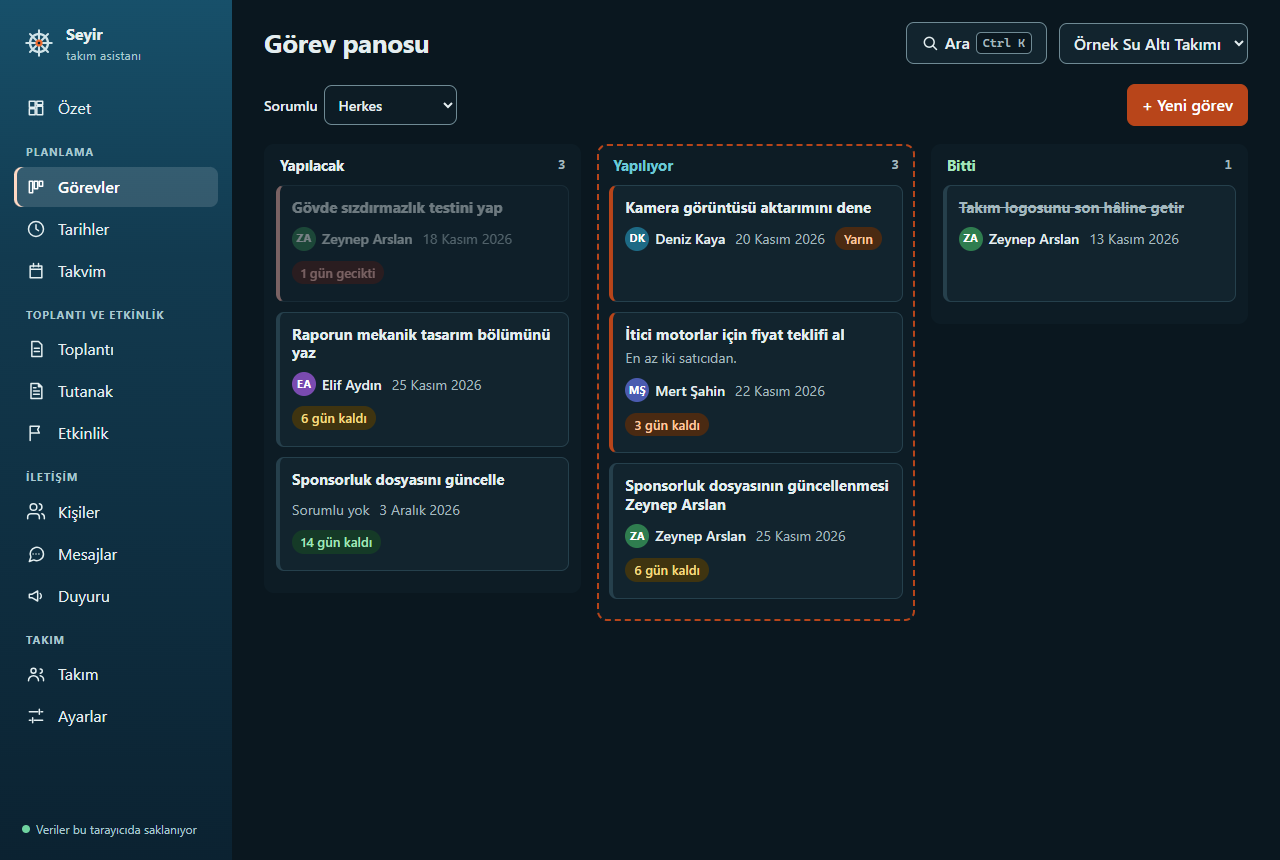
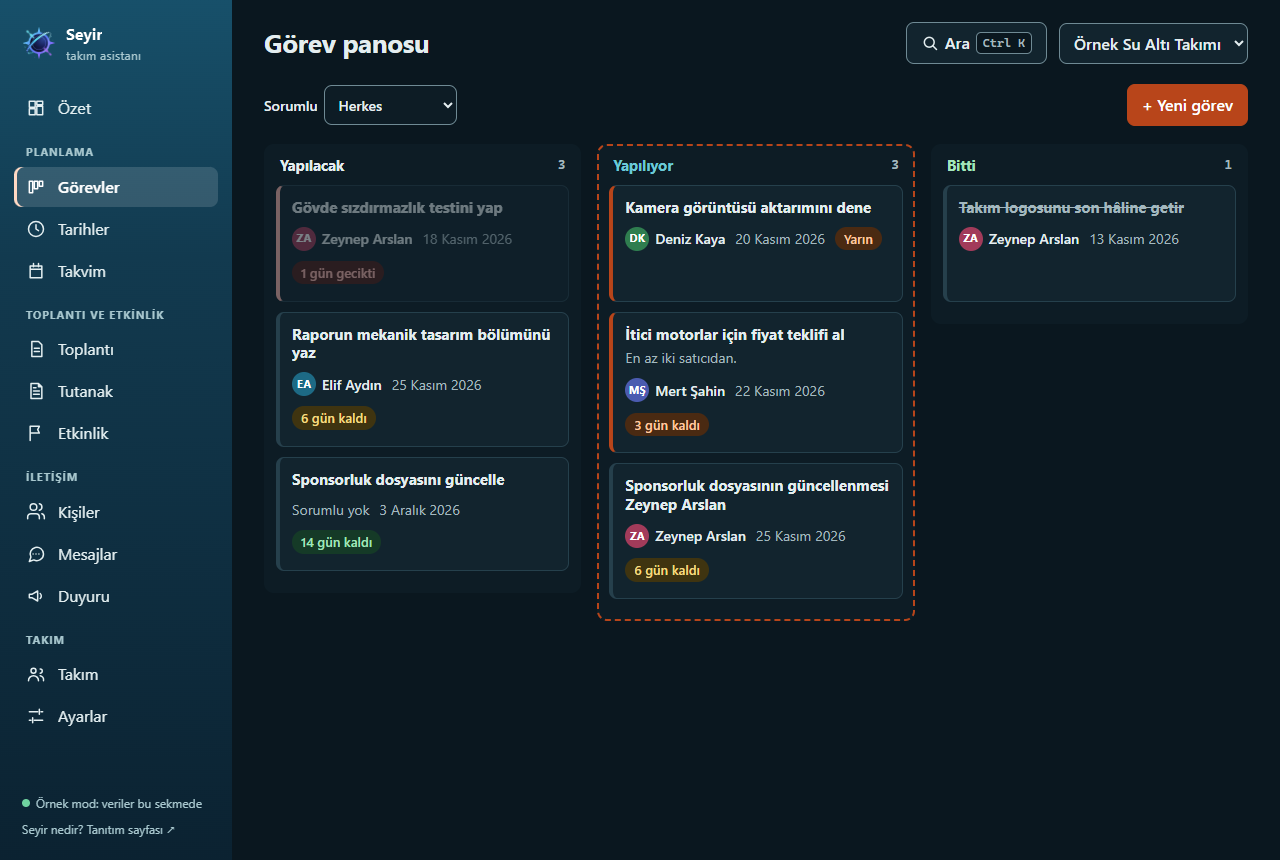
Tanıtım cilaları: yeni ekran görüntüleri, Yenilikler, ilerleme çizgisi
- README ve tanıtımdaki ekran görüntüleri yeni logoyla yeniden çekildi
  (örnek modda, uydurma veriyle)
- Yenilikler bölümü: son üç günün kullanıcıya görünen değişiklikleri;
  girişteki "Yeni" rozeti buraya götürür
- Sayfanın üstünde kaydırma ilerleme çizgisi
- Degrade başlıklarda ş/ç/ğ alt çengelleri artık kırpılmıyor

diff --git a/tanitim-kaynak/src/yenilikler.jsx b/tanitim-kaynak/src/yenilikler.jsx
@@ -1,0 +1,67 @@
+// Yenilikler: son eklenen özellikler, tarihe göre. Kaynak git geçmişi; yalnızca kullanıcının
+// göreceği değişiklikler yazılır (altyapı, test, belge değişiklikleri yazılmaz).
+// Yeni bir özellik eklenince listenin BAŞINA ekle; en fazla 3 tarih göster.
+import { Belir, BolumBasligi, IsikliKart } from "./ortak.jsx";
+
+const SURUMLER = [
+  {
+    tarih: "19 Kasım 2026",
+    maddeler: [
+      ["Yeni", "Hesap açmadan dene: tek tıkla uydurma bir takımla dolu uygulama, sekmeyi kapatınca silinir."],
+      ["Yeni", "Yeni logo ve tanıtım sayfası."],
+      ["İyileşti", "Özet ekranı: ilerleme çubuğu, \"Kimde ne var\" ve \"Sıradaki buluşmalar\"."],
+      ["İyileşti", "Telefonda alt çubukta dört ana ekran; menü gruplara ayrıldı."],
+    ],
+  },
+  {
+    tarih: "18 Kasım 2026",
+    maddeler: [
+      ["Yeni", "Görev panosunda kartları sürükleyip başka sütuna bırak."],
+      ["Yeni", "Ctrl+K ile her yerde arama; Ctrl+S kaydet, ? kısayol listesi."],
+      ["Yeni", "Takvimi .ics dosyasıyla Google Takvim'e ya da telefona aktar."],
+      ["Yeni", "Tutanak kararından tek tıkla görev; sorumlu metindeki addan seçilir."],
+      ["İyileşti", "Başlıksız notlar da forma yerleşiyor; Word dosyası sürükleyip bırakılabiliyor."],
+      ["İyileşti", "Yarım kalan formlar kaybolmuyor, açınca geri geliyor."],
+    ],
+  },
+  {
+    tarih: "17 Kasım 2026",
+    maddeler: [
+      ["Yeni", "Şifremi unuttum, beni hatırla ve şifre değiştirme."],
+      ["Güvenlik", "İki kişi aynı kaydı aynı anda düzenlerse uyarı; kimsenin yazdığı ezilmez."],
+    ],
+  },
+];
+
+const ROZET = {
+  Yeni: "border-su-300/30 bg-su-300/10 text-su-300",
+  "İyileşti": "border-violet-300/30 bg-violet-300/10 text-violet-200",
+  "Güvenlik": "border-emerald-300/30 bg-emerald-300/10 text-emerald-200",
+};
+
+export function Yenilikler() {
+  return (
+    <section id="yenilikler" className="relative mx-auto max-w-6xl scroll-mt-24 px-5 py-28 sm:py-36">
+      <BolumBasligi etiket="Yenilikler" baslik="Durmadan gelişiyor."
+        aciklama="Takımdan gelen her geri bildirim bir sonraki sürüme dönüşüyor. Son eklenenler:" />
+      <div className="mx-auto mt-14 max-w-3xl space-y-5">
+        {SURUMLER.map((s, i) => (
+          <IsikliKart key={s.tarih} gecikme={i * 0.08} className="rounded-3xl p-6 sm:p-8">
+            <h3 className="font-mono text-sm tracking-wide text-slate-400">{s.tarih}</h3>
+            <ul className="mt-4 space-y-3">
+              {s.maddeler.map(([tur, metin]) => (
+                <li key={metin} className="flex items-start gap-3">
+                  <span className={"mt-0.5 flex-none rounded-full border px-2 py-0.5 text-[11px] font-medium " + ROZET[tur]}>{tur}</span>
+                  <span className="leading-relaxed text-slate-300">{metin}</span>
+                </li>
+              ))}
+            </ul>
+          </IsikliKart>
+        ))}
+        <Belir gecikme={0.2} as="p" className="pt-2 text-center text-sm text-slate-500">
+          Bütün değişiklikler GitHub'daki geçmişte.
+        </Belir>
+      </div>
+    </section>
+  );
+}

diff --git a/tanitim-kaynak/src/ust-bolumler.jsx b/tanitim-kaynak/src/ust-bolumler.jsx
@@ -1,6 +1,6 @@
 // Sayfanın üst yarısı: menü, hero, kayan bant, bento özellik kartları.
 import { useEffect, useRef, useState } from "react";
-import { motion, useScroll, useTransform, useReducedMotion, AnimatePresence } from "framer-motion";
+import { motion, useScroll, useTransform, useReducedMotion, useSpring, AnimatePresence } from "framer-motion";
 import {
   ArrowRight, Github, Search, CalendarPlus, WifiOff, MessageCircle, FileText,
   SquareKanban, Sparkles, Play,
@@ -11,6 +11,19 @@ import ozetGorseli from "./gorseller/ozet.png";
 import tutanakGorseli from "./gorseller/tutanak-gorev.png";
 
 /* ---------- Üst menü: kaydırınca cam efektli olur ---------- */
+/* ---------- Kaydırma ilerleme çizgisi ----------
+   Sayfanın en üstünde, aşağı indikçe soldan sağa dolan ince çizgi. Yaylı (spring)
+   geçiş titremeyi önler; "hareketi azalt" açıksa yay olmadan doğrudan izler. */
+export function KaydirmaCizgisi() {
+  const { scrollYProgress } = useScroll();
+  const azHareket = useReducedMotion();
+  const yayli = useSpring(scrollYProgress, { stiffness: 140, damping: 30, mass: 0.3 });
+  return (
+    <motion.div aria-hidden="true" style={{ scaleX: azHareket ? scrollYProgress : yayli }}
+      className="fixed inset-x-0 top-0 z-[60] h-[2px] origin-left bg-gradient-to-r from-su-300 via-blue-400 to-violet-400" />
+  );
+}
+
 export function UstMenu() {
   const [kaydi, setKaydi] = useState(false);
   useEffect(() => {
@@ -73,9 +86,9 @@ export function Hero() {
           </div>
         </Belir>
         <Belir>
-          <a href="#demo" className="parilti animate-parilti inline-flex items-center gap-2 rounded-full border border-white/10 px-4 py-1.5 text-xs font-medium text-slate-300 transition hover:border-white/20 sm:text-sm">
+          <a href="#yenilikler" className="parilti animate-parilti inline-flex items-center gap-2 rounded-full border border-white/10 px-4 py-1.5 text-xs font-medium text-slate-300 transition hover:border-white/20 sm:text-sm">
             <Sparkles size={14} className="text-su-300" />
-            Yeni: başlıksız notlar da forma kendiliğinden yerleşiyor
+            Yeni: hesap açmadan örnek takımla dene
             <ArrowRight size={14} />
           </a>
         </Belir>

diff --git a/tanitim-kaynak/src/main.jsx b/tanitim-kaynak/src/main.jsx
@@ -4,16 +4,18 @@ import { createRoot } from "react-dom/client";
 import { MotionConfig } from "framer-motion";
 import "./stil.css";
 import { uygulamayaYonlendir } from "./yonlendir.js";
-import { UstMenu, Hero, KayanBant, Bento } from "./ust-bolumler.jsx";
+import { UstMenu, Hero, KayanBant, Bento, KaydirmaCizgisi } from "./ust-bolumler.jsx";
 import { NotDemosu, Vitrin, Sayilar, Adimlar, Guvenlik, Kapanis, AltBilgi } from "./alt-bolumler.jsx";
 import { Sss } from "./sss.jsx";
 import { Hikaye } from "./hikaye.jsx";
+import { Yenilikler } from "./yenilikler.jsx";
 
 function Uygulama() {
   return (
     // reducedMotion="user": cihazda "hareket azaltma" açıksa Framer animasyonları kısalır
     <MotionConfig reducedMotion="user">
       <a href="#ozellikler" className="sr-only focus:not-sr-only focus:fixed focus:left-4 focus:top-4 focus:z-[60] focus:rounded-lg focus:bg-white focus:px-4 focus:py-2 focus:text-obsidyen">İçeriğe geç</a>
+      <KaydirmaCizgisi />
       <UstMenu />
       <main>
         <Hero />
@@ -25,6 +27,7 @@ function Uygulama() {
         <Hikaye />
         <Adimlar />
         <Guvenlik />
+        <Yenilikler />
         <Sss />
         <Kapanis />
       </main>

diff --git a/tanitim-kaynak/src/stil.css b/tanitim-kaynak/src/stil.css
@@ -40,10 +40,14 @@
   .parlak-metin {
     background: linear-gradient(180deg, #ffffff 0%, #e4f7fa 55%, #a7bcc6 100%);
     -webkit-background-clip: text; background-clip: text; color: transparent;
+    /* ş, ç, ğ gibi harflerin alt çengeli kutunun dışına taşar; boyalı alan biraz uzatılır */
+    padding-bottom: .12em; margin-bottom: -.12em;
   }
   .su-metin {
     background: linear-gradient(90deg, #8be3ee, #5fd3e0 40%, #ff8a52);
     -webkit-background-clip: text; background-clip: text; color: transparent;
+    /* ş, ç, ğ gibi harflerin alt çengeli kutunun dışına taşar; boyalı alan biraz uzatılır */
+    padding-bottom: .12em; margin-bottom: -.12em;
   }
 
   /* Cam kart + fareyi izleyen ışık. --x / --y, Isik bileşeni tarafından yazılır. */

diff --git a/tanitim-kaynak/src/yonlendir.js b/tanitim-kaynak/src/yonlendir.js
@@ -7,7 +7,7 @@
 //   - örnek veri bağlantısı:  /?ornek=1                         -> /uygulama?ornek=1
 // Tanıtım sayfasının kendi bölüm bağlantıları (#ozellikler gibi) yönlendirilmez.
 // Dönen değer true ise sayfa çizilmez (tarayıcı zaten başka adrese gidiyor).
-const TANITIM_BOLUMLERI = new Set(["", "ozellikler", "demo", "vitrin", "guvenlik", "sss", "hikaye"]);
+const TANITIM_BOLUMLERI = new Set(["", "ozellikler", "demo", "vitrin", "guvenlik", "sss", "hikaye", "yenilikler"]);
 
 export function uygulamayaYonlendir(konum = window.location, ortam = window) {
   const ek = konum.hash.slice(1);

diff --git a/testler/yonlendir.test.js b/testler/yonlendir.test.js
@@ -28,7 +28,7 @@ test("yönlendirme: örnek veri bağlantısı ve ana ekran simgesi uygulamaya gi
 });
 
 test("yönlendirme: tanıtımın kendi bölümleri ve boş adres yerinde kalır", async () => {
-  for (const ek of ["", "#", "#ozellikler", "#demo", "#vitrin", "#guvenlik", "#sss", "#hikaye"]) {
+  for (const ek of ["", "#", "#ozellikler", "#demo", "#vitrin", "#guvenlik", "#sss", "#hikaye", "#yenilikler"]) {
     assert.deepEqual(await dene(ek), { sonuc: false, gidilen: null }, ek);
   }
 });
